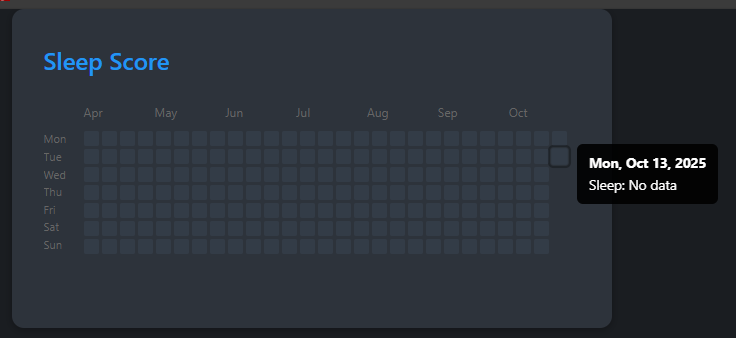
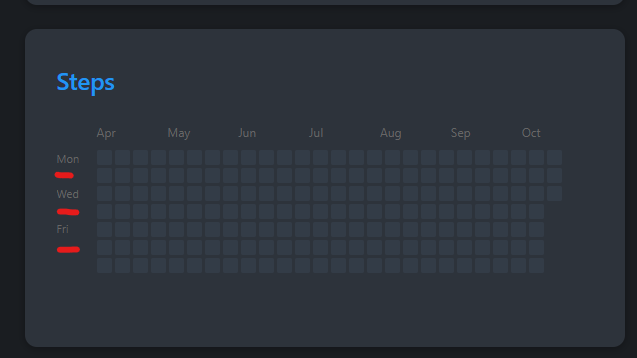
Fixes

diff --git a/health.js b/health.js
@@ -204,16 +204,28 @@ class HealthDashboard {
     // Add squares to grid
     squares.forEach(square => grid.appendChild(square));
 
-    // Render day labels dynamically based on which days are in the grid
+    // Render day labels: Mon at row 2, Wed at row 4, Fri at row 6
     const dayNames = ['Sun', 'Mon', 'Tue', 'Wed', 'Thu', 'Fri', 'Sat'];
     // Monday-first order (1=Mon, 2=Tue, ..., 6=Sat, 0=Sun)
     const dayOrder = [1, 2, 3, 4, 5, 6, 0]; // Mon through Sun
 
+    // Row indices: 0=empty, 1=Mon, 2=empty, 3=Wed, 4=empty, 5=Fri, 6=empty
+    let rowIndex = 0;
     dayOrder.forEach(dayIndex => {
       if (daysInGrid.has(dayIndex)) {
         const span = document.createElement('span');
-        span.textContent = dayNames[dayIndex];
+        // Show Mon at rowIndex 1, Wed at 3, Fri at 5
+        if (rowIndex === 1) {
+          span.textContent = dayNames[1]; // Mon
+        } else if (rowIndex === 3) {
+          span.textContent = dayNames[3]; // Wed
+        } else if (rowIndex === 5) {
+          span.textContent = dayNames[5]; // Fri
+        } else {
+          span.textContent = ''; // Empty label for other rows
+        }
         daysContainer.appendChild(span);
+        rowIndex++;
       }
     });
 

diff --git a/styles.css b/styles.css
@@ -195,9 +195,9 @@ html {
 }
 
 .heatmap-days {
-    display: flex;
-    flex-direction: column;
-    justify-content: space-around;
+    display: grid;
+    grid-template-rows: repeat(7, 15px);
+    gap: 3px;
     font-size: 0.7rem;
     color: #666;
     padding-right: 8px;
@@ -208,6 +208,7 @@ html {
     height: 15px;
     display: flex;
     align-items: center;
+    justify-content: flex-end;
 }
 
 .heatmap-grid {
